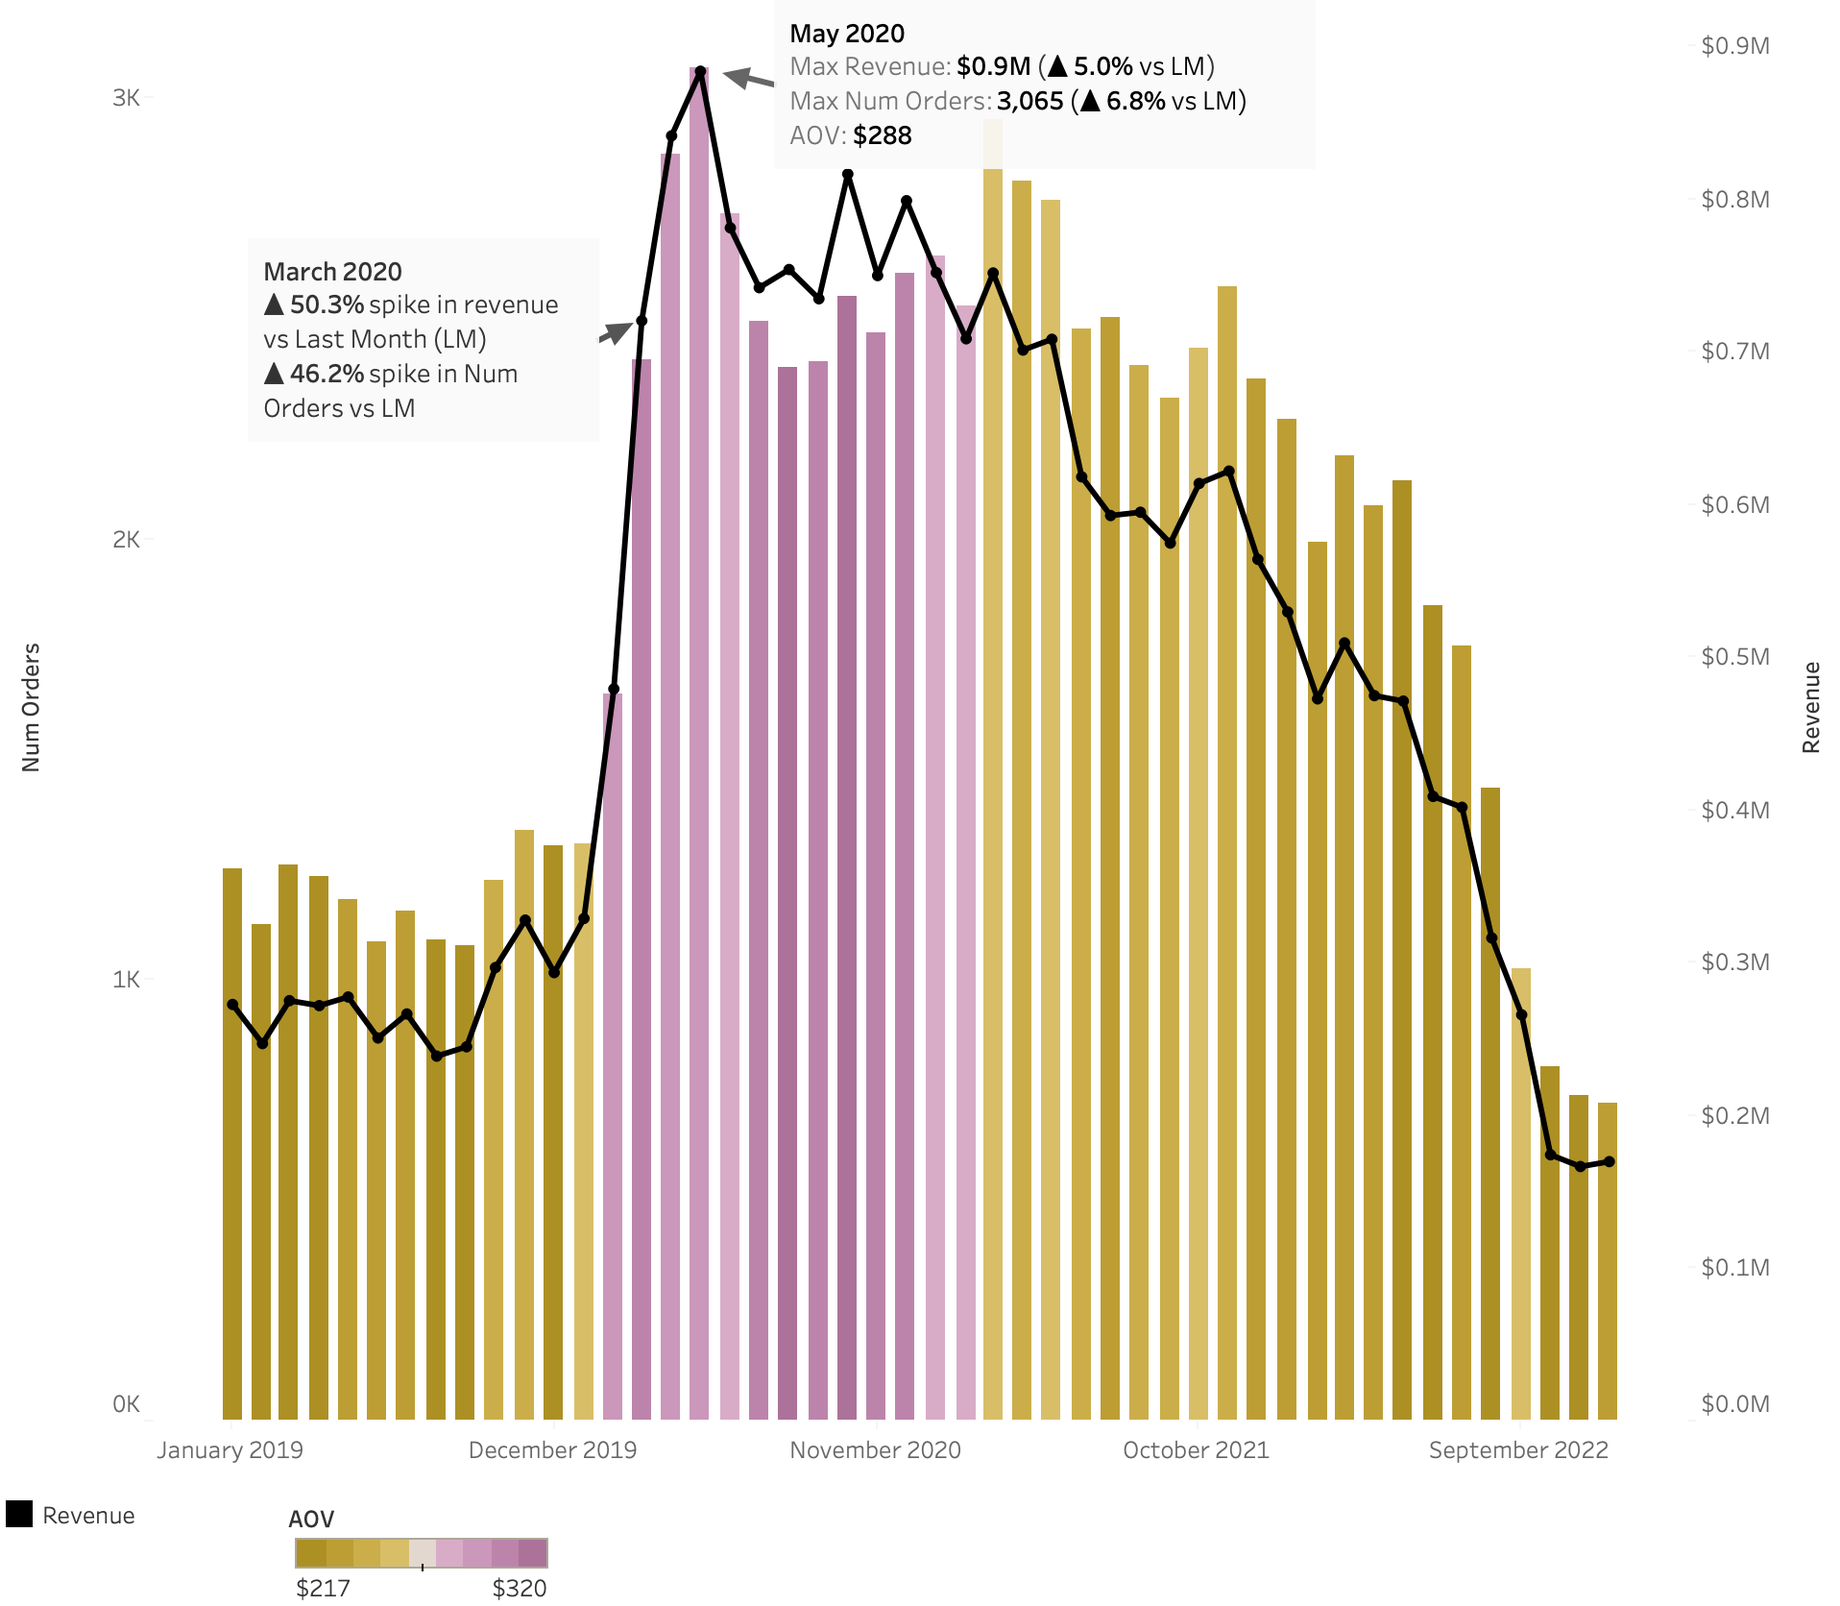
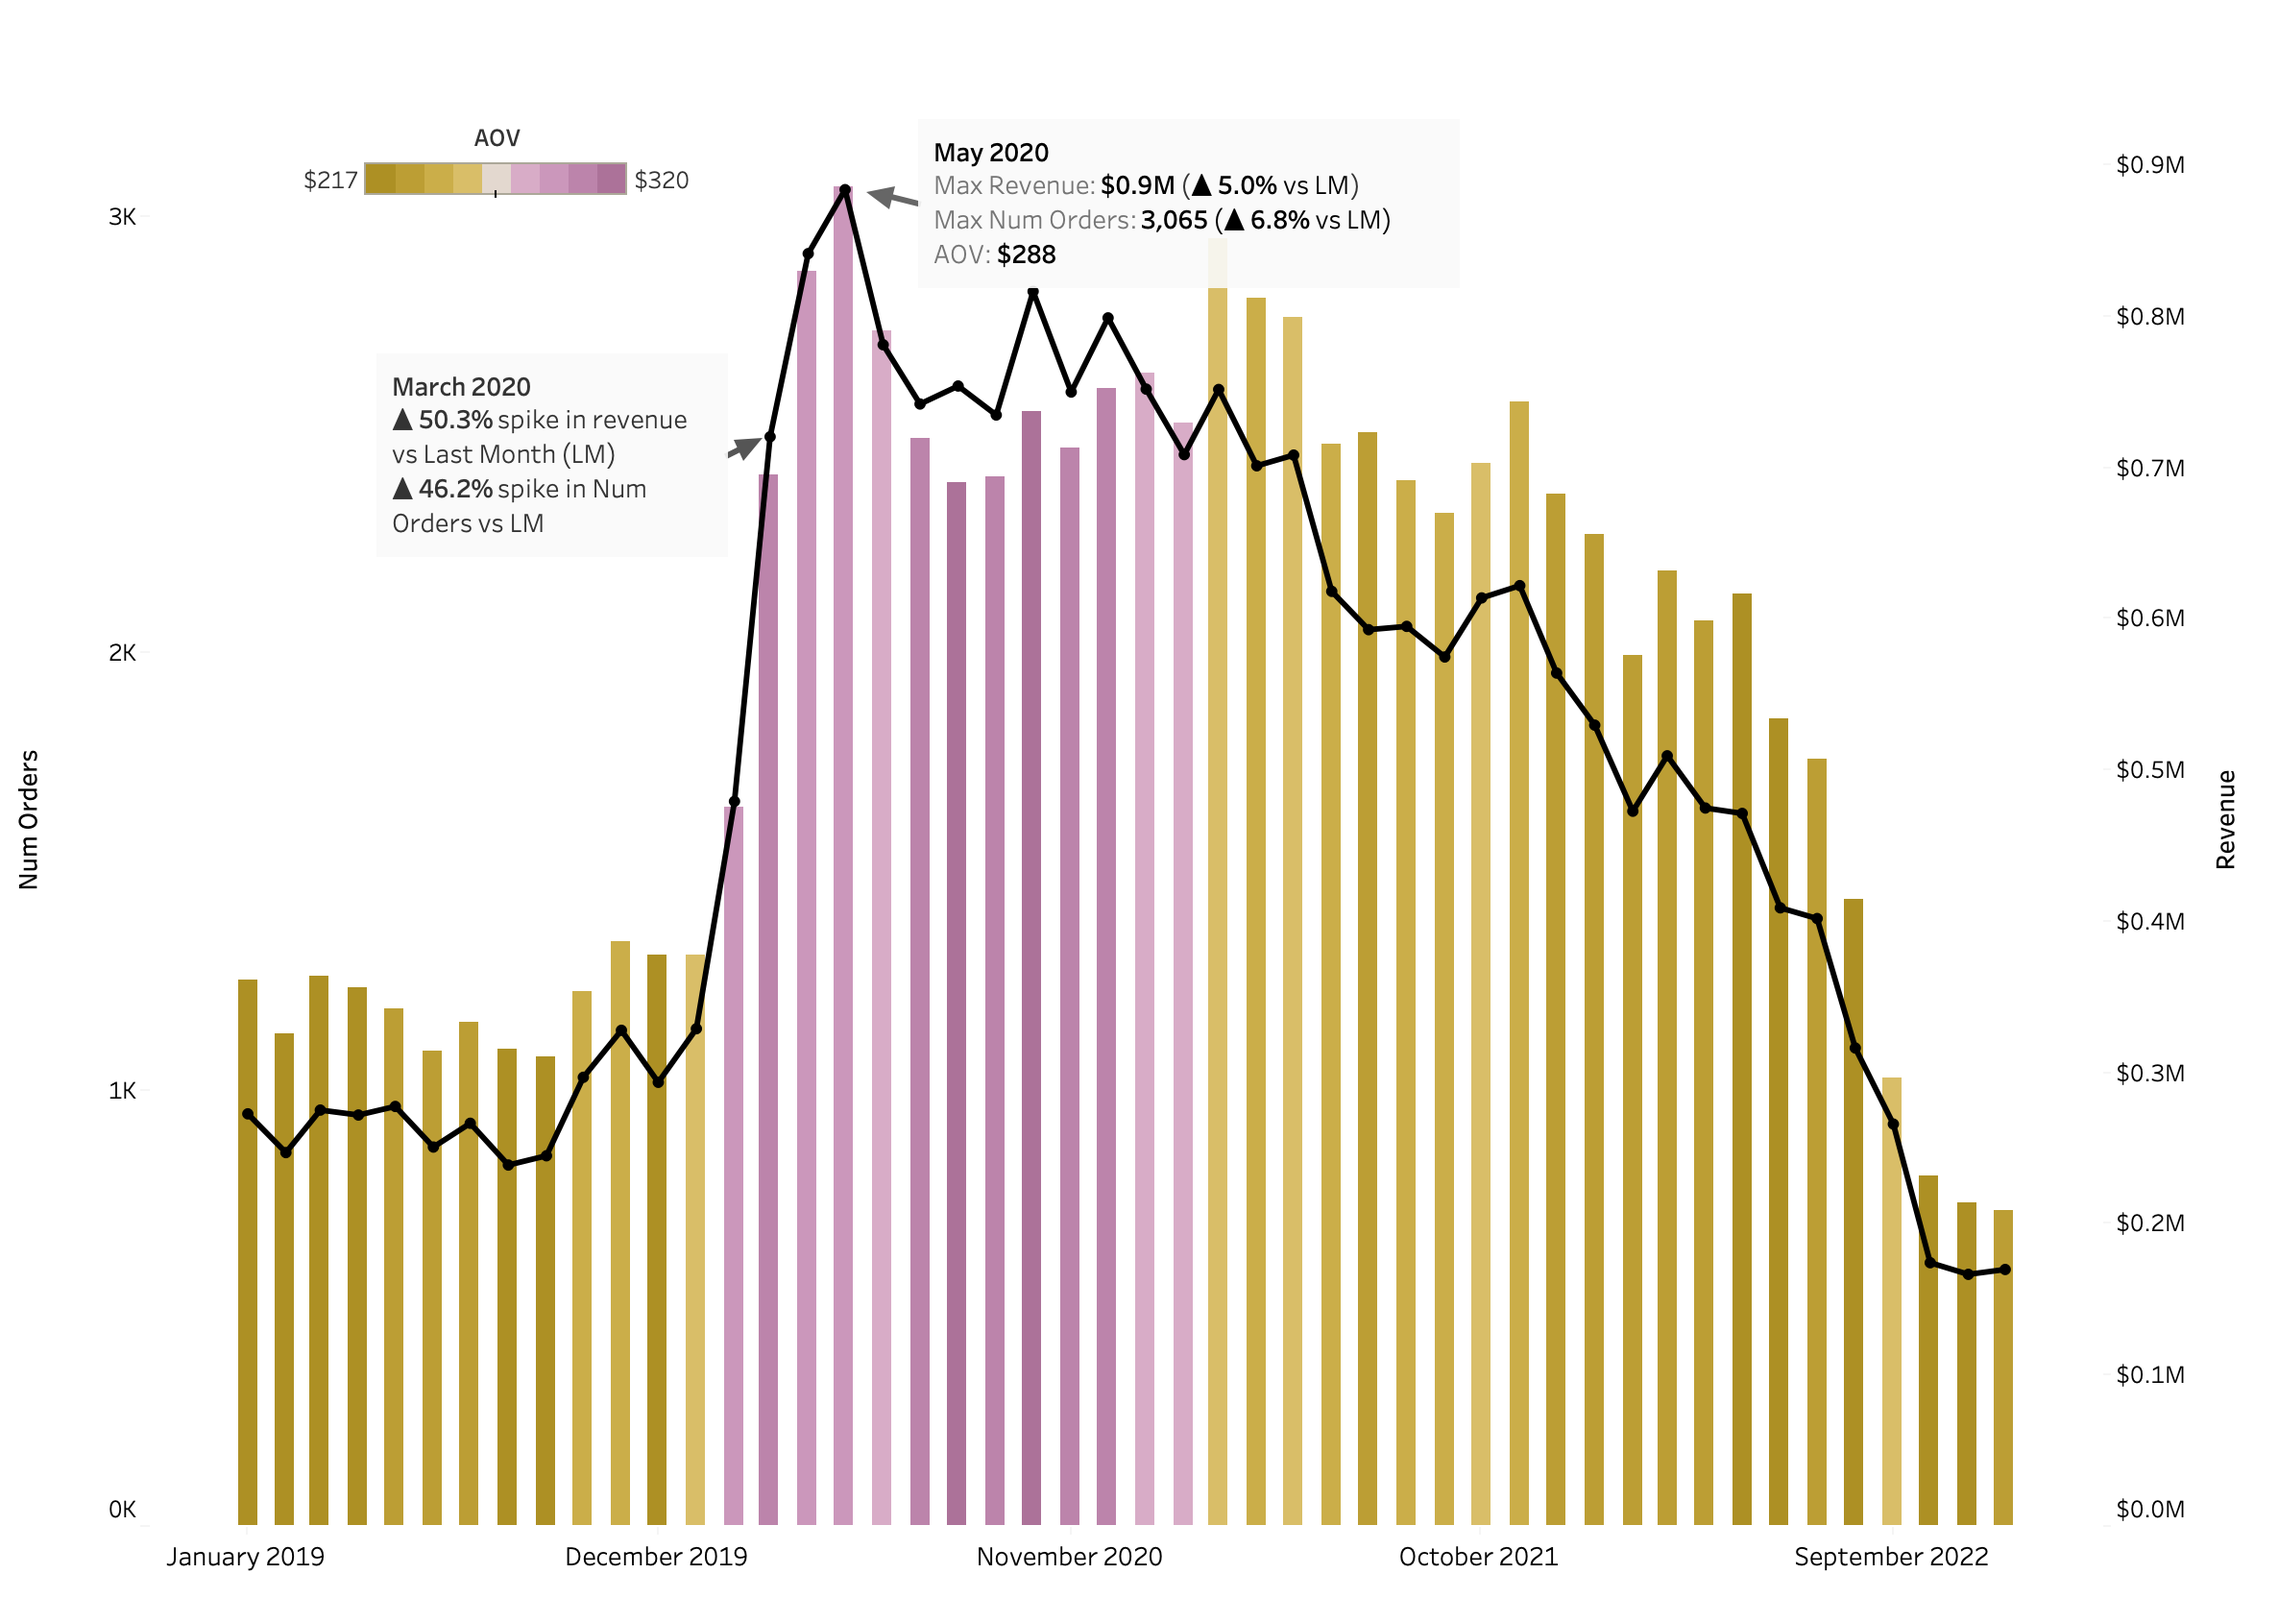
update Readme.md

diff --git a/README.md b/README.md
@@ -49,13 +49,15 @@ E-Galaxy wants to better understand their performance and any growth opportuniti
 
 ## Executive Summary
 <p align="center">
-  <img src="images/yearlytable.png" alt="Yearly Table" width="600" height="600">
+<b>Table 1. Annual Sales Performance Summary.Summary of yearly sales revenue, number of orders, and average order value (AOV), including year-over-year (YoY) growth rates for each metric.</b>
+  <img src="images/yearlytable.png" alt="Annual Sales Performnace Table" width="600" height="600">
 </p> 
 
 Revenue grew by **165%** with **100% increase in orders from 2019 to 2020**, driven by Covid-19 pandemic related shifts in consumer behavior, including increased e-commerce activity and work from home trends. In **2021**, order volume continued to rise by **6%** but average order value decline that led to **10% drop in revenue** signalling a shift toward lower value purchases. Revenue has steadily declined from **2020 to 2022**. This downward trend has accelerated between **2021 and 2022** with **orders decreasing by 38%, revenue falling by 44%** and **AOV dropping by 10%** highlighting weakening demand and reduced customer engagement.
 
 <p align="center">
   <img src="images/RevenueTrends.png" alt="Revenue Trends" width="800" height="600">
+  <p><b>Fig. 1. </b> Monthly Sales Revenue Trends. The black line represents monthly sales revenue. Bar height shows the number of orders, while color (gold to purple) reflects the strength of AOV ranging from $217 to $320. Annotations higlights the month with the highest Revenue and the month with highest month-over-month growth rate.
 </p>
 
 Peak Sales Occured in **May 2020**, when monthly revenue reached approximately **$1M** reflecting the pandemic driven e-commerce boom.
